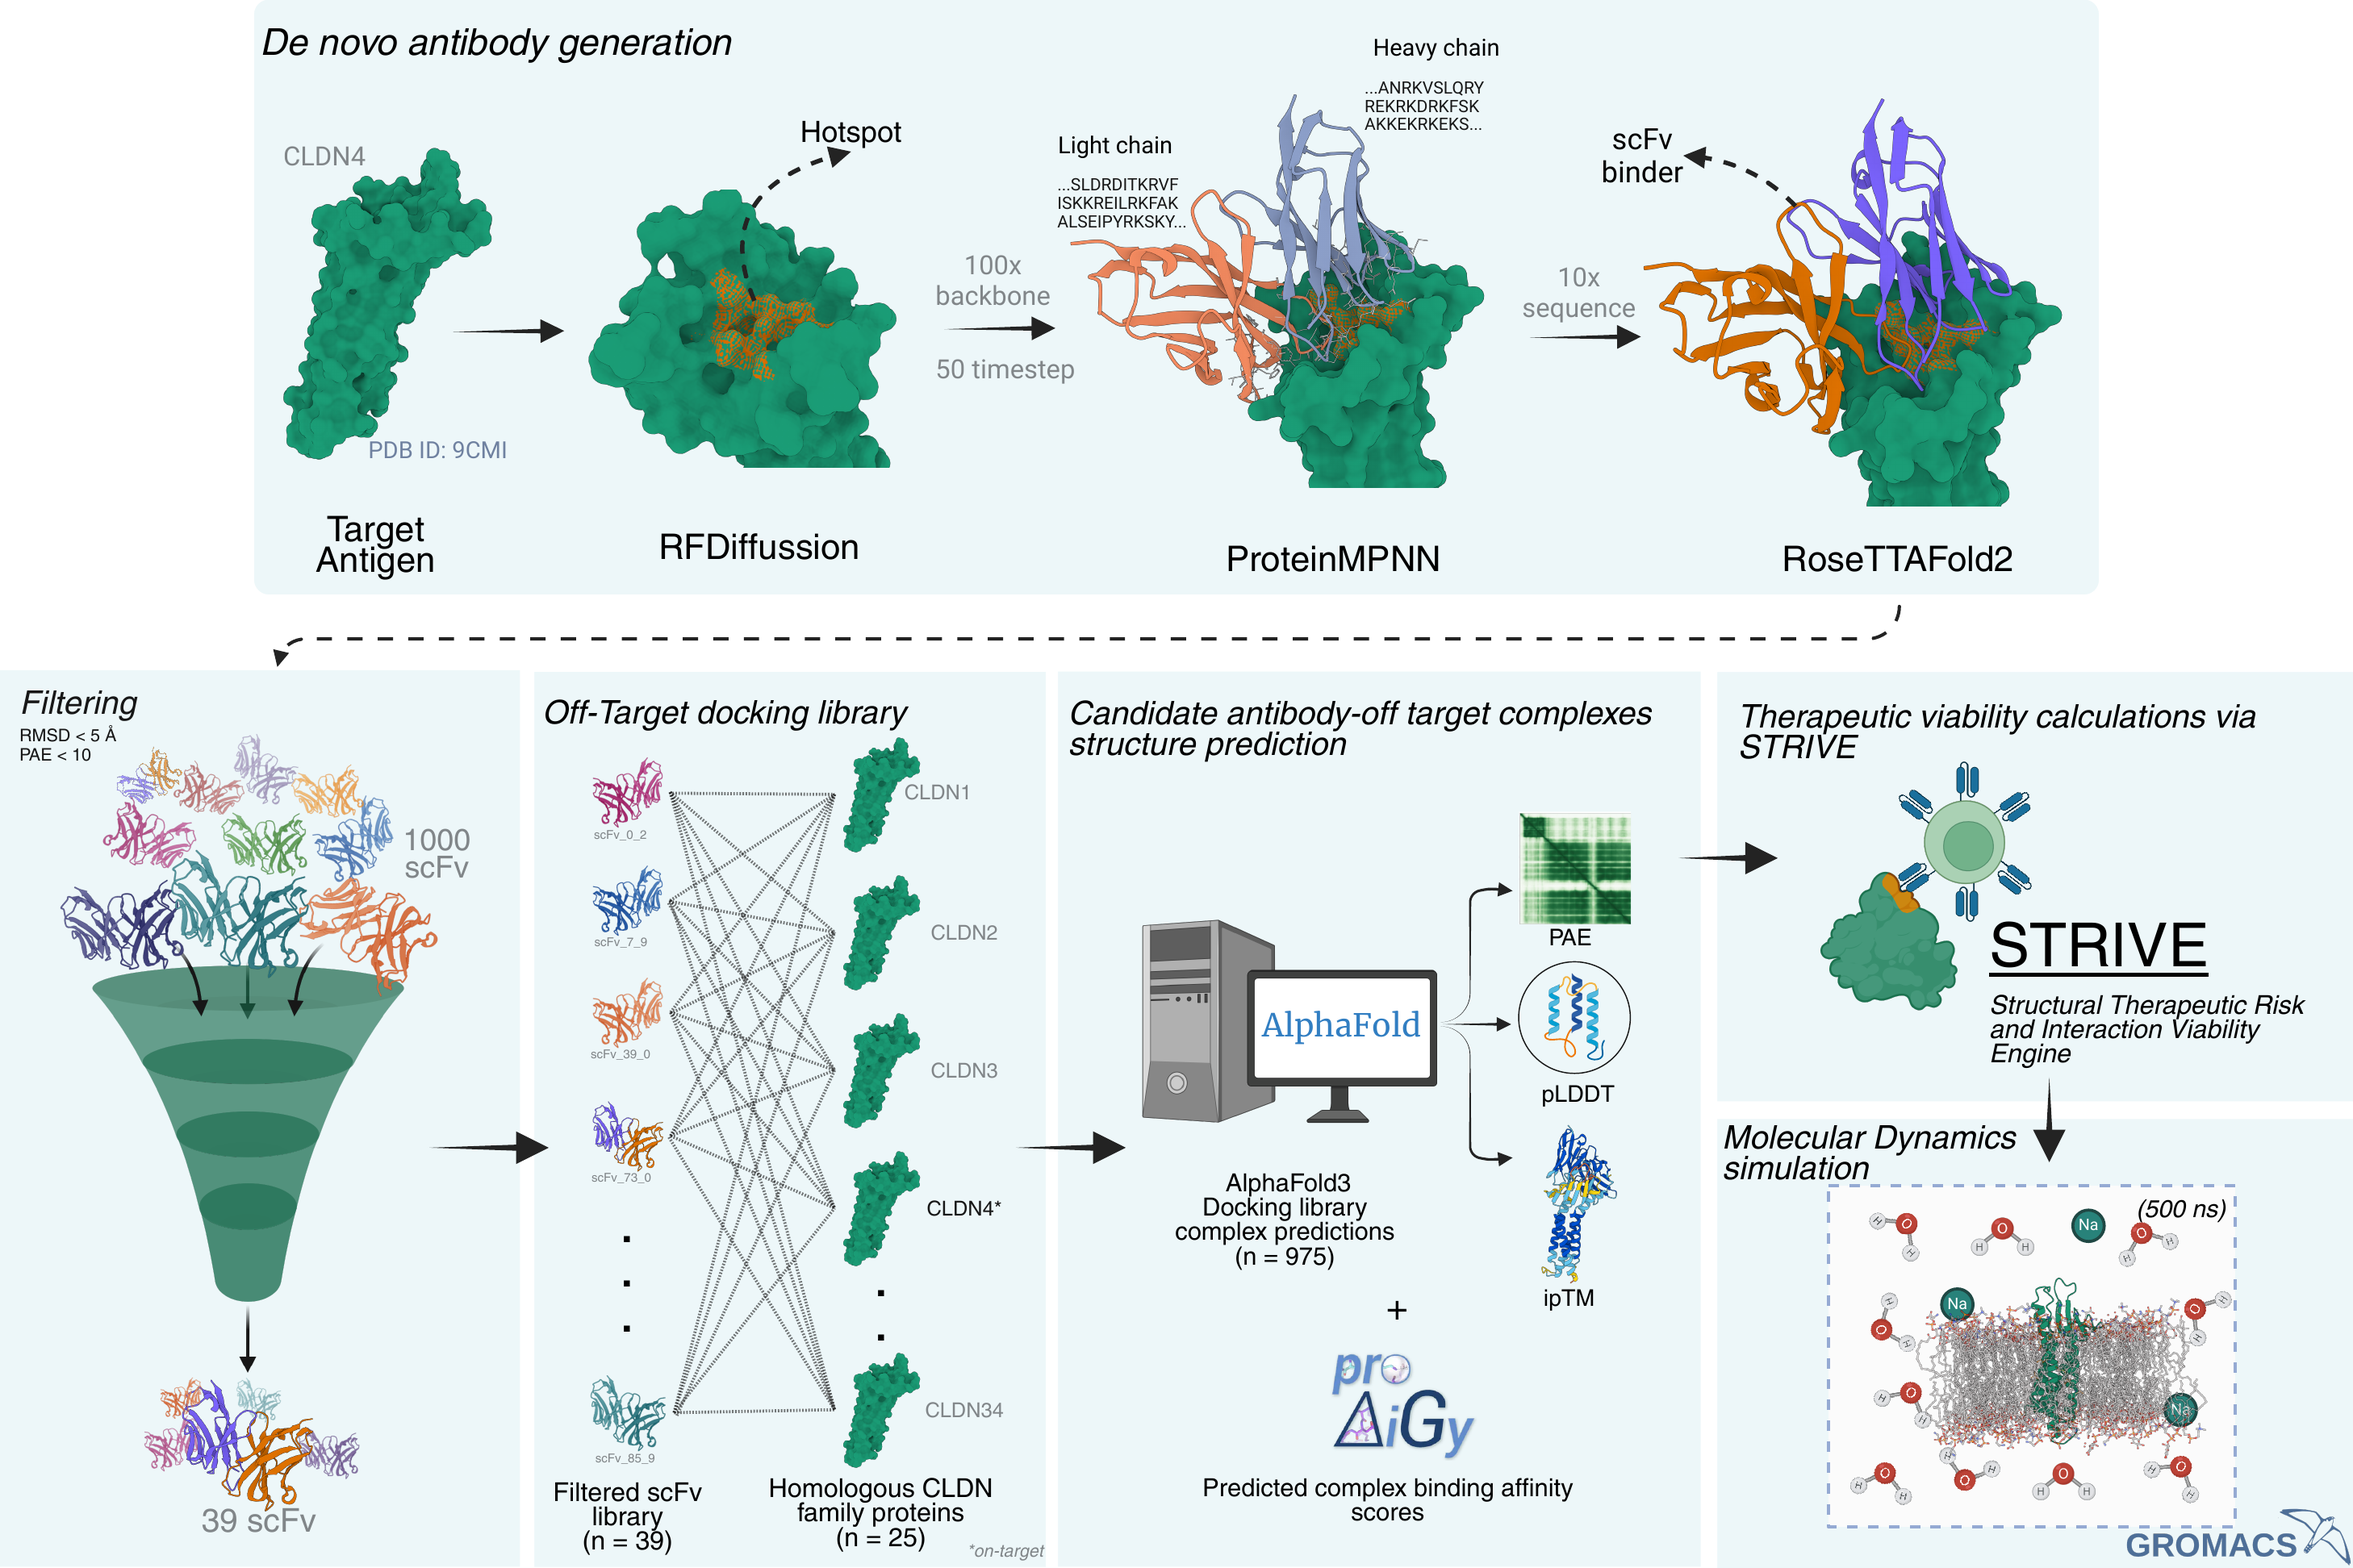
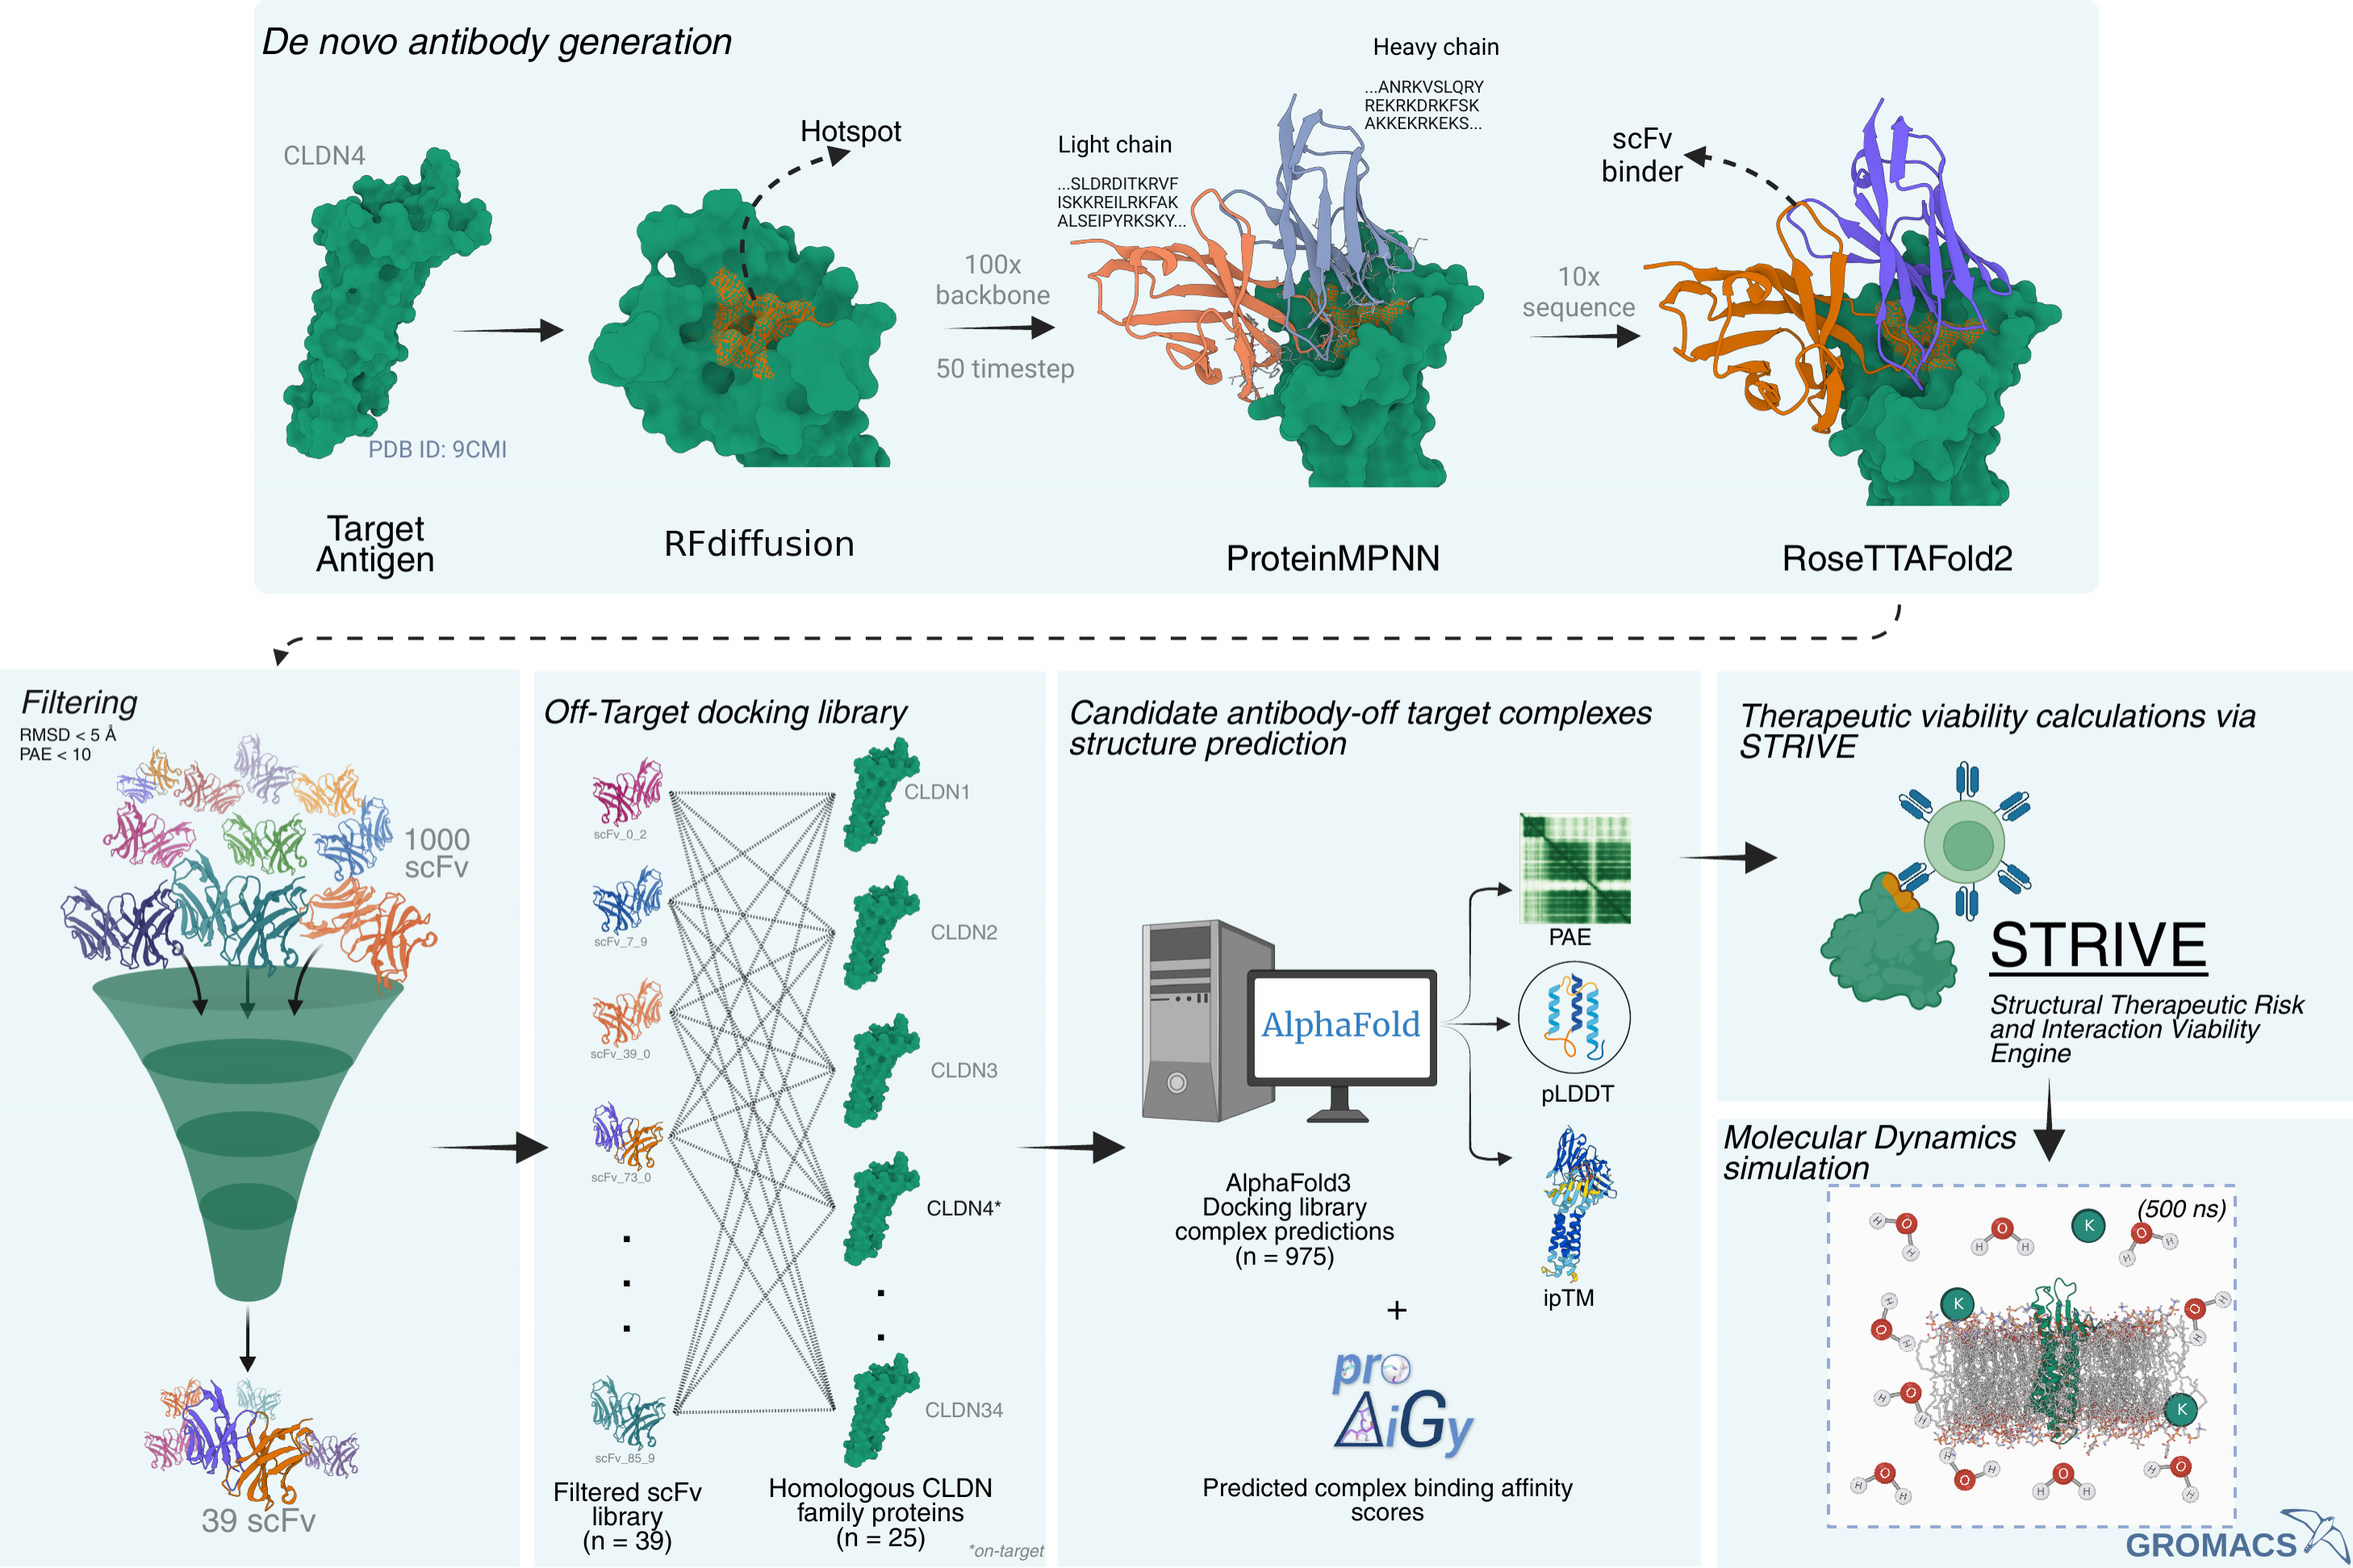
Re-render stand-alone panels 2A and 2C instead of copying the raw source
The panel exports copied figures/source_figure2/*.png verbatim, so the two
corrections and the four chain labels that the composite draws were silently
absent from the stand-alone files - and a hand-assembly built from them brings
back "RFDiffussion" and the Na counter-ions, and loses the panel C labels
entirely.

Both are now re-rendered at native raster size with the overlays baked in. Type
is sized in source pixels (px_fontsize), so it holds its proportion to the
artwork whatever scale the panel is later placed at.

diff --git a/revision_analyses/scripts/R14_figure2_composite.py b/revision_analyses/scripts/R14_figure2_composite.py
@@ -89,10 +89,11 @@ axC = fig.add_subplot(gs[1, 1]); imgpanel(axC, "C_complex.png", "C", dx=-0.02)
 # margins they had on the page); given in data coordinates so they track the image
 # rather than the letterboxed axes box.
 cW, cH = mpimg.imread(F + "source_figure2/C_complex.png").shape[1::-1]
-for fx, fy, txt, ha in [(0.033, 0.784, "Light chain", "left"),
-                        (0.987, 0.690, "Heavy chain", "right"),
-                        (0.714, 0.523, "scFv-73-0", "left"),
-                        (0.039, 0.251, "CLDN4", "left")]:
+C_LABELS = [(0.033, 0.784, "Light chain", "left"),
+            (0.987, 0.690, "Heavy chain", "right"),
+            (0.714, 0.523, "scFv-73-0", "left"),
+            (0.039, 0.251, "CLDN4", "left")]
+for fx, fy, txt, ha in C_LABELS:
     axC.text(fx * cW, (1 - fy) * cH, txt, fontsize=7.5, color=INK, ha=ha, va="center")
 
 # ---------------------------------------------------------------- D and E ---
@@ -101,17 +102,49 @@ axE = fig.add_subplot(gs[2, 1]); imgpanel(axE, "E_light.png", "E", "VL-CLDN4 con
 
 # ------------------------------------------------- individual panel files ---
 # Emitted so the figure can also be hand-assembled: vector PDF for the plotted panel,
-# native-resolution PNG for the renders.
+# PNG for the renders. A and C are re-rendered rather than copied, so the stand-alone
+# files carry the same corrections and labels the composite does - copying the raw
+# source would silently drop them. Type is sized in source pixels, so it keeps its
+# proportion to the baked-in artwork however the panel is later scaled.
 import shutil
 P = F + "panels/"
 os.makedirs(P, exist_ok=True)
-for src, dst in [("A_workflow.png", "Fig2_A_workflow.png"),
-                 ("C_complex.png", "Fig2_C_complex.png"),
-                 ("D_heavy.png", "Fig2_D_VH_contacts.png"),
+DPI = 300
+
+def px_fontsize(cap_px, dpi=DPI):
+    """Point size whose cap height is cap_px pixels of the source raster."""
+    return cap_px / dpi * 72 / 0.72
+
+def standalone(path, out, overlay):
+    img = mpimg.imread(F + "source_figure2/" + path)
+    h, w = img.shape[:2]
+    f = plt.figure(figsize=(w / DPI, h / DPI), dpi=DPI)
+    ax = f.add_axes([0, 0, 1, 1]); ax.imshow(img); ax.set_axis_off()
+    overlay(ax, w, h)
+    f.savefig(P + out, dpi=DPI, facecolor="white")
+    plt.close(f)
+
+def _a_overlay(ax, w, h):
+    ax.add_patch(Rectangle((812, 649), 259, 54, facecolor="#edf7f9", ec="none", zorder=4))
+    ax.text(941, 676, "RFdiffusion", fontsize=px_fontsize(31), color=INK,
+            ha="center", va="center", zorder=5)
+    for cx, cy in [(2588, 1520), (2426, 1617), (2703, 1748)]:
+        ax.add_patch(Circle((cx, cy), 18.5, facecolor="#288a7a", ec="none", zorder=4))
+        ax.text(cx, cy, "K", fontsize=px_fontsize(14), color="white",
+                ha="center", va="center", zorder=5)
+
+def _c_overlay(ax, w, h):
+    for fx, fy, txt, ha in C_LABELS:
+        ax.text(fx * w, (1 - fy) * h, txt, fontsize=px_fontsize(56), color=INK,
+                ha=ha, va="center")
+
+standalone("A_workflow.png", "Fig2_A_workflow.png", _a_overlay)
+standalone("C_complex.png", "Fig2_C_complex.png", _c_overlay)
+for src, dst in [("D_heavy.png", "Fig2_D_VH_contacts.png"),
                  ("E_light.png", "Fig2_E_VL_contacts.png")]:
     shutil.copyfile(F + "source_figure2/" + src, P + dst)
 shutil.copyfile(F + "Figure2B_specificity.pdf", P + "Fig2_B_specificity.pdf")
-print("  wrote panels/Fig2_A..E")
+print("  wrote panels/Fig2_A..E (A and C carry the corrections and labels)")
 
 assert_no_text_overlap(fig, "Figure2_composite")
 fig.savefig(F + "Figure2_composite.pdf", bbox_inches="tight")
